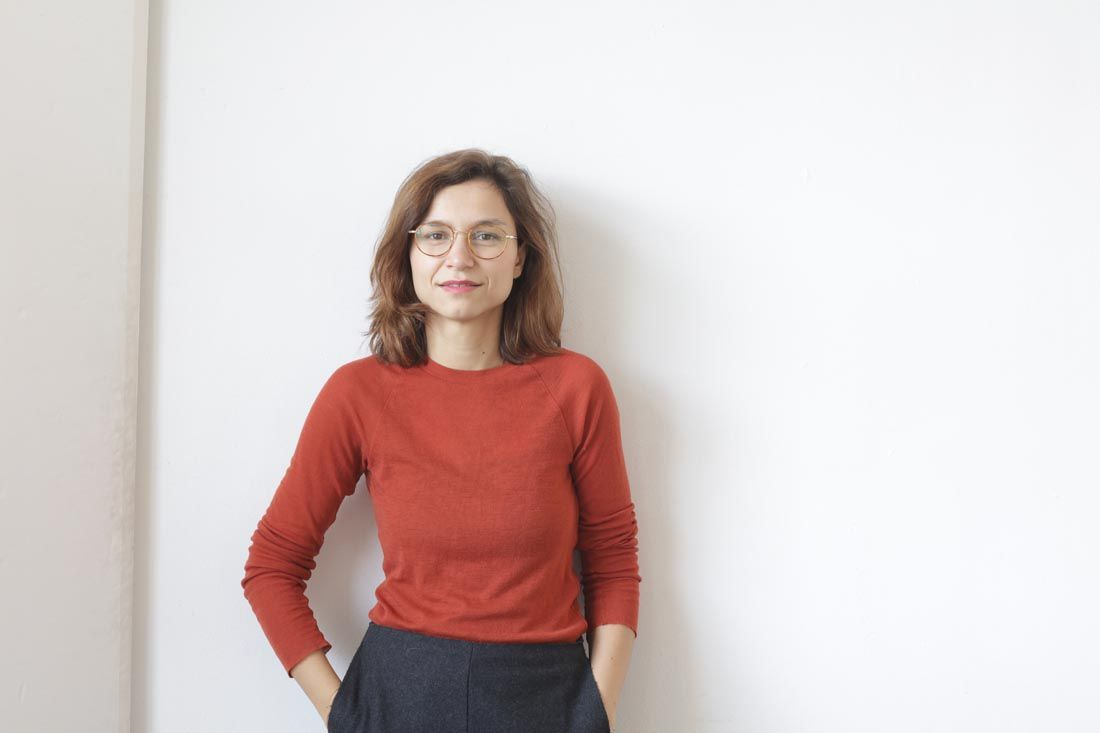
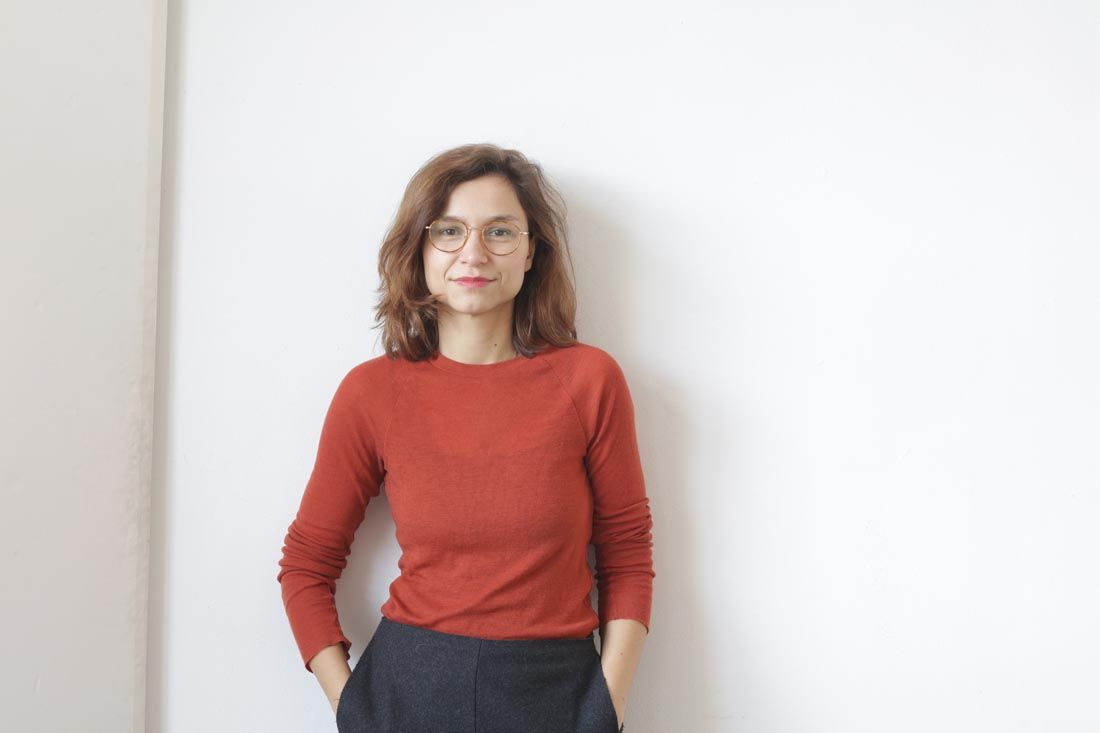
add section

Changed region(s): [[0.2164, 0.1801, 0.6491, 1.0], [0.0927, 0.0, 0.1855, 1.0]]

diff --git a/index.html b/index.html
@@ -64,7 +64,7 @@ Ich unterstütze dabei, auf behutsame Weise dem Ungreifbaren und Vagen eine Gest
             <div class="container">
                 <!-- Featured Project Row-->
                 <div class="row align-items-centaer no-gutters mb-4 mb-lg-5">
-                    <div class="col-xl-8 col-lg-7"><img class="img-fluid mb-3 mb-lg-0" src="assets/img/figure2.jpg" alt="" /></div>
+                    <div class="col-xl-8 col-lg-7"><img class="img-fluid mb-3 mb-lg-0" src="assets/img/angebot2.jpg" alt="" /></div>
                     <div class="col-xl-4 col-lg-5">
                         <div class="featured-text text-center text-lg-left">
                             <h4>Mein Angebot</h4>
@@ -127,31 +127,41 @@ Ich unterstütze dabei, auf behutsame Weise dem Ungreifbaren und Vagen eine Gest
                     </div>
                 </div>
                  <!-- Project Four Row-->
+                 
                  <div class="row justify-content-center no-gutters mb-5 mb-lg-0">
-                    <div class="col-lg-6"><img class="img-fluid" src="assets/img/portrait.jpeg" alt="" /></div>
+                    <div class="col-lg-6"><img class="img-fluid" src="assets/img/placehodler.jpg" alt="" /></div>
                     <div class="col-lg-6">
                         <div class="bg-black text-center h-100 project">
                             <div class="d-flex h-100">
                                 <div class="project-text w-100 my-auto text-center text-lg-left">
-                                    <h4 class="text-white">Über mich</h4>
-                                    <p class="mb-0 text-white-50">Ich bin Gestalt-Beraterin, Kulturwissenschaftlerin, Mutter einer dreijährigen Tochter und Wahlberlinerin. <br /><br />
-
-                                        Knapp zehn Jahre war ich planend und beratend im Bildungsbereich tätig. 
-                                        Heute verbinde ich meine Leidenschaft für visuellen Ausdruck mit der Gestalt-Arbeit zu wirksamer Begleitung in Veränderungsprozessen. 
-                                        
-                                        <!-- Mit dem Gestalt-Ansatz habe ich einen Weg gefunden, kreativen Ausdruck und    
-                                        
-                                        Die beraterische Arbeit mit dem Gestalt-Ansatz hat es mir ermöglicht, meine Leidenschaft für den kreativen Ausdruck mit 
-                                        
-                                        beruht auch auf der Erkenntnis, dass es eine Stärke ist, sich für die eigene (vermeintliche) Schwäche zu entscheiden.<br /><br />
-                                        Ich bin glücklich darüber, meine „Schwäche" für den kreativen Ausdruck mit meinem beraterischen Ansatz zu verbinden.
-                                    </p> -->
+                                    <h4 class="text-white">Text</h4>
+                                    <p class="mb-0 text-white-50">Another example of a project with its respective description. These sections work well responsively as well, try this theme on a small screen!</p>
                                     <hr class="d-none d-lg-block mb-0 ml-0" />
                                 </div>
                             </div>
                         </div>
                     </div>
                 </div>
+                 <!-- Project Three Row-->
+                 <div class="row justify-content-center no-gutters">
+                    <div class="col-lg-6"><img class="img-fluid" src="assets/img/portrait.jpeg" alt="" /></div>
+                    <div class="col-lg-6 order-lg-first">
+                        <div class="bg-black text-center h-100 project">
+                            <div class="d-flex h-100">
+                                <div class="project-text w-100 my-auto text-center text-lg-right">
+                                    <h4 class="text-white">Über mich</h4>
+                                    <p class="mb-0 text-white-50">Ich bin Gestalt-Beraterin, Kulturwissenschaftlerin, Mutter einer dreijährigen Tochter und Wahlberlinerin. <br /><br />
+                                        Knapp zehn Jahre war ich planend und beratend im Bildungsbereich tätig. 
+                                        Heute verbinde ich meine Leidenschaft für visuellen Ausdruck mit der Gestalt-Arbeit zu wirksamer Begleitung in Veränderungsprozessen. 
+                                    </p>
+                                    
+                                    <hr class="d-none d-lg-block mb-0 mr-0" />
+                                </div>
+                            </div>
+                        </div>
+                    </div>
+                </div>
+                 <!-- Project Four Row-->
             </div>
         </section>
         <!-- Contact-->
